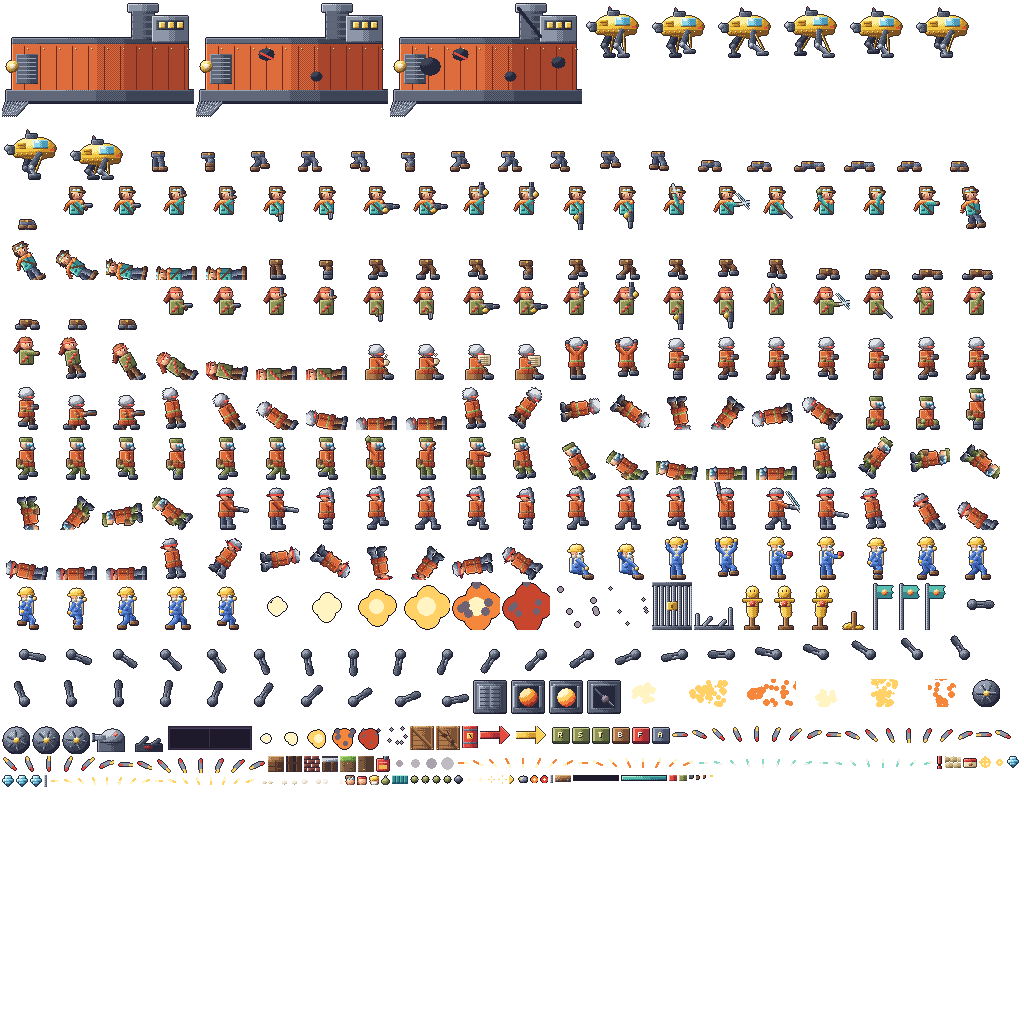
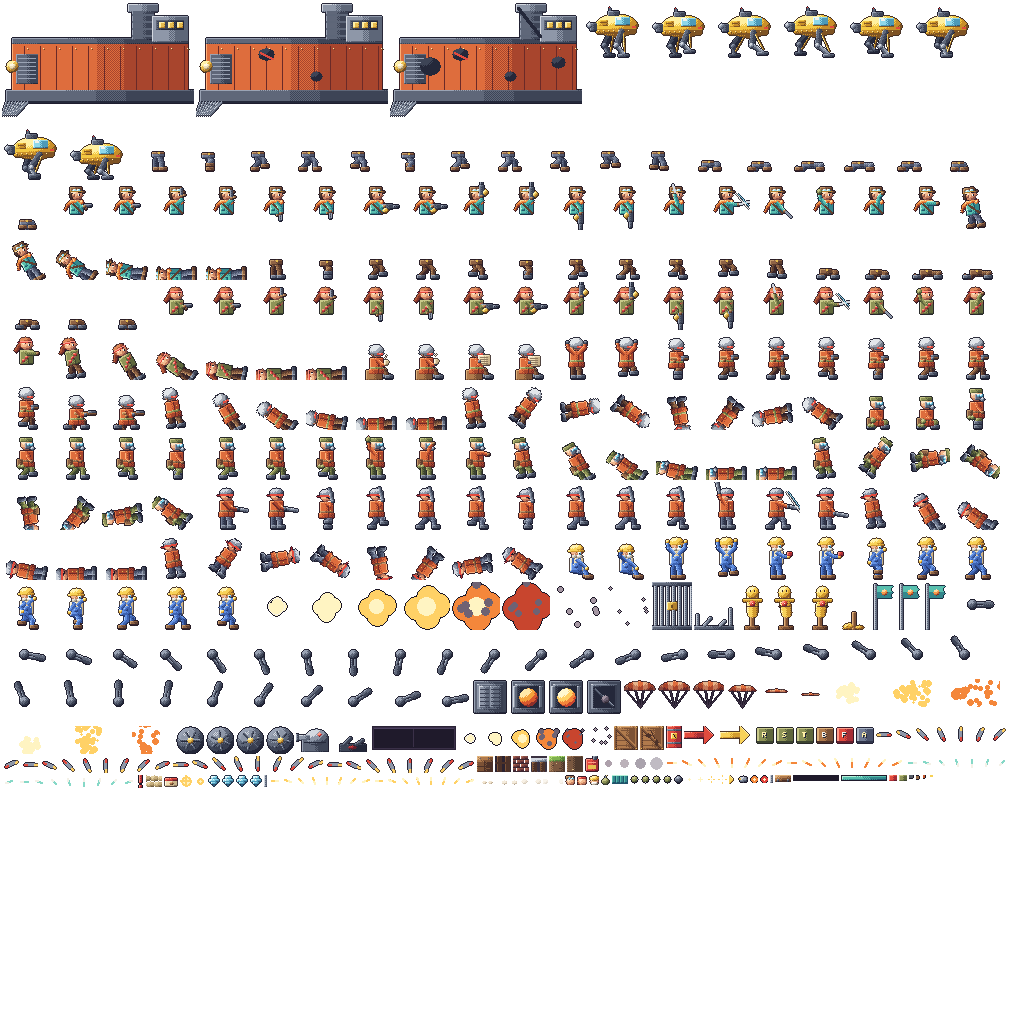
fix: spawn enemies before they are visible and add paratroopers

Changed region(s): [[0.0, 0.6562, 1.0, 0.7812]]

diff --git a/src/game/entities/enemies/Enemy.ts b/src/game/entities/enemies/Enemy.ts
@@ -10,7 +10,7 @@ import type { Target } from "../../systems/CombatSystem";
 import { ENEMIES, type EnemyDef, type EnemyType, type IdlePose } from "./EnemyDefs";
 import type { EnemyBehaviour } from "./behaviours/EnemyBehaviour";
 
-export type EnemyState = "idle" | "alert" | "engage" | "attack" | "dying" | "gone";
+export type EnemyState = "para" | "idle" | "alert" | "engage" | "attack" | "dying" | "gone";
 
 export interface EnemySpawn {
   type: EnemyType;
@@ -20,6 +20,7 @@ export interface EnemySpawn {
   hold: boolean;
   group: number;
   facing: 1 | -1;
+  para?: boolean;
 }
 
 export class Enemy implements Target {
@@ -27,6 +28,7 @@ export class Enemy implements Target {
   readonly meleeable = true;
   readonly sprite: Physics.Arcade.Sprite;
   readonly mark: GameObjects.Image;
+  readonly chute: GameObjects.Image;
   readonly fsm: StateMachine<Enemy, EnemyState>;
   readonly cooldown = new Cooldown(1);
   def: EnemyDef = ENEMIES.grunt;
@@ -45,10 +47,32 @@ export class Enemy implements Target {
     this.sprite = scene.physics.add.sprite(0, 0, TEX.atlas, "grunt_run_0").setOrigin(0.5, 1).setDepth(DEPTH.enemies);
     (this.sprite.body as Physics.Arcade.Body).setSize(14, 30).setOffset(17, 18);
     this.mark = scene.add.image(0, 0, TEX.atlas, "excl_0").setDepth(DEPTH.fx).setVisible(false);
+    this.chute = scene.add.image(0, 0, TEX.atlas, "chute_1").setOrigin(0.5, 1).setDepth(DEPTH.enemies + 1).setVisible(false);
     scene.physics.add.collider(this.sprite, ctx.terrain.solids);
     scene.physics.add.collider(this.sprite, ctx.terrain.platforms);
     this.sprite.disableBody(true, true);
     this.fsm = new StateMachine<Enemy, EnemyState>(this, {
+      para: {
+        enter: (e) => {
+          e.body.setAllowGravity(false);
+          e.body.setVelocity(0, ENEMY.paraFall);
+          e.sprite.stop();
+          e.sprite.setFrame(e.def.type === "grunt" ? "grunt_alert_1" : `${e.def.type}_run_2`);
+          e.chute.setVisible(true);
+        },
+        update: (e, _dt, t) => {
+          const sway = Math.sin(t * 2.4);
+          e.body.setVelocityX(sway * 14);
+          e.chute.setFrame(`chute_${sway < -0.35 ? 0 : sway > 0.35 ? 2 : 1}`).setPosition(Math.round(e.x), Math.round(e.y - 30));
+          if (e.body.blocked.down || e.body.touching.down) return "engage";
+        },
+        exit: (e) => {
+          e.body.setAllowGravity(true);
+          e.body.setVelocityX(0);
+          e.chute.setVisible(false);
+          e.ctx.fx.play("chute_fold", e.chute.x, e.chute.y - 14, { originY: 0.5 });
+        },
+      },
       idle: {
         enter: (e) => { const a = e.def.idleAnims[e.idlePose]; if (a) e.sprite.play(a); },
         update: (e) => (Math.abs(e.ctx.player.x - e.sprite.x) < ENEMY.noticeRange && e.ctx.player.alive ? "alert" : undefined),
@@ -123,7 +147,7 @@ export class Enemy implements Target {
     this.body.checkCollision.none = false;
     this.body.setAllowGravity(true);
     this.sprite.setFrame(this.def.standFrame);
-    this.fsm.change(s.idle === "none" ? "engage" : "idle");
+    this.fsm.change(s.para ? "para" : s.idle === "none" ? "engage" : "idle");
   }
 
   isHittable(): boolean {
@@ -205,6 +229,7 @@ export class Enemy implements Target {
   private retire(): void {
     this.active = false;
     this.mark.setVisible(false);
+    this.chute.setVisible(false);
     this.sprite.stop();
     this.sprite.disableBody(true, true);
   }

diff --git a/src/game/level/SpawnDirector.ts b/src/game/level/SpawnDirector.ts
@@ -1,3 +1,4 @@
+import { VIEW_W } from "../../config/display";
 import type { GameContext } from "../context/GameContext";
 import type { EnemyFactory } from "../entities/enemies/EnemyFactory";
 import type { LevelData, SpawnDef } from "./LevelData";
@@ -12,9 +13,14 @@ export class SpawnDirector {
   private next = 0;
   private time = 0;
   private readonly pending: Pending[] = [];
+  private readonly placed: Array<{ def: SpawnDef; group: number }> = [];
   private lockedGroup: number | null = null;
 
-  constructor(private readonly ctx: GameContext, private readonly data: LevelData, private readonly enemies: EnemyFactory) {}
+  constructor(private readonly ctx: GameContext, private readonly data: LevelData, private readonly enemies: EnemyFactory) {
+    data.triggers.forEach((t, group) => {
+      for (const def of t.spawns) if (def.x !== undefined && def.entry !== "para") this.placed.push({ def, group });
+    });
+  }
 
   get lockGroup(): number | null {
     return this.lockedGroup;
@@ -22,6 +28,7 @@ export class SpawnDirector {
 
   skipTo(scroll: number): void {
     while (this.next < this.data.triggers.length && this.data.triggers[this.next]!.at <= scroll) this.next++;
+    for (let i = this.placed.length - 1; i >= 0; i--) if (this.placed[i]!.def.x! < scroll + VIEW_W + 120) this.placed.splice(i, 1);
     this.pending.length = 0;
     this.lockedGroup = null;
     this.ctx.camera.unlock();
@@ -30,6 +37,13 @@ export class SpawnDirector {
   update(dt: number): void {
     this.time += dt;
     const cam = this.ctx.camera;
+    for (let i = this.placed.length - 1; i >= 0; i--) {
+      const p = this.placed[i]!;
+      if (p.def.x! <= cam.right + 120) {
+        this.placed.splice(i, 1);
+        this.spawn({ at: 0, def: p.def, group: p.group });
+      }
+    }
     while (this.next < this.data.triggers.length && cam.left >= this.data.triggers[this.next]!.at) {
       const t = this.data.triggers[this.next]!;
       const group = this.next;
@@ -37,7 +51,7 @@ export class SpawnDirector {
         cam.lock(t.at);
         this.lockedGroup = group;
       }
-      for (const def of t.spawns) this.pending.push({ at: this.time + (def.delay ?? 0), def, group });
+      for (const def of t.spawns) if (def.x === undefined || def.entry === "para") this.pending.push({ at: this.time + (def.delay ?? 0), def, group });
       this.next++;
     }
     for (let i = this.pending.length - 1; i >= 0; i--) {
@@ -56,16 +70,20 @@ export class SpawnDirector {
   private spawn(p: Pending): void {
     const d = p.def;
     const cam = this.ctx.camera;
-    const placed = d.x !== undefined;
-    const x = d.x ?? (d.side === "left" ? cam.left - 16 : cam.right + 16);
+    const para = d.entry === "para";
+    const placed = d.x !== undefined && !para;
+    const x = para
+      ? d.x ?? cam.left + VIEW_W * this.ctx.rng.range(0.45, 0.9)
+      : d.x ?? (d.side === "left" ? cam.left - 16 : cam.right + 16);
     this.enemies.spawn({
       type: d.type,
       x,
-      y: d.y ?? this.data.groundY,
-      idle: d.idle ?? (placed ? "idle" : "none"),
+      y: para ? -8 : d.y ?? this.data.groundY,
+      idle: para ? "none" : d.idle ?? (placed ? "idle" : "none"),
       hold: d.hold ?? false,
       group: p.group,
-      facing: d.side === "left" ? 1 : -1,
+      facing: para ? (this.ctx.player.x < x ? -1 : 1) : d.side === "left" ? 1 : -1,
+      para,
     });
   }
 }

diff --git a/src/game/level/missions/lowtide.ts b/src/game/level/missions/lowtide.ts
@@ -59,18 +59,19 @@ export const LOWTIDE: LevelData = {
     ] },
     { at: 700, spawns: [{ type: "grunt", x: 1010, idle: "idle" }, { type: "grunt", x: 1060, idle: "read" }, { type: "rusher", side: "right", delay: 1.5 }, { type: "rusher", side: "right", delay: 2.1 }] },
     { at: 1000, spawns: [{ type: "grunt", x: 1250, y: 130, idle: "idle", hold: true }, { type: "lobber", side: "right", delay: 0.8 }] },
-    { at: 1350, spawns: [{ type: "grunt", side: "right", delay: 0 }, { type: "grunt", side: "right", delay: 0.7 }, { type: "rusher", side: "left", delay: 1.4 }, { type: "grunt", side: "right", delay: 2.2 }] },
+    { at: 1350, spawns: [{ type: "grunt", side: "right", delay: 0 }, { type: "grunt", entry: "para", delay: 0.7 }, { type: "rusher", side: "left", delay: 1.4 }, { type: "grunt", entry: "para", delay: 2.2 }] },
     { at: 1700, lock: true, spawns: [
       { type: "grunt", side: "right", delay: 0 },
       { type: "lobber", x: 1780, y: 110, idle: "none", hold: true, delay: 0.3 },
       { type: "grunt", side: "right", delay: 0.8 },
       { type: "rusher", side: "left", delay: 1.6 },
       { type: "rusher", side: "right", delay: 2.4 },
-      { type: "grunt", side: "right", delay: 3.2 },
+      { type: "grunt", entry: "para", delay: 3.2 },
+      { type: "grunt", entry: "para", delay: 3.6 },
       { type: "lobber", side: "right", delay: 4 },
     ] },
     { at: 2150, spawns: [{ type: "grunt", x: 2420, idle: "read" }, { type: "grunt", x: 2470 + 40, idle: "idle" }, { type: "lobber", x: 2600, y: 130, idle: "none", hold: true }] },
-    { at: 2500, spawns: [{ type: "rusher", side: "right", delay: 0 }, { type: "rusher", side: "right", delay: 0.5 }, { type: "grunt", side: "left", delay: 1.2 }, { type: "grunt", side: "right", delay: 1.8 }] },
+    { at: 2500, spawns: [{ type: "rusher", side: "right", delay: 0 }, { type: "rusher", entry: "para", delay: 0.5 }, { type: "grunt", side: "left", delay: 1.2 }, { type: "grunt", entry: "para", delay: 1.8 }] },
     { at: 2750, spawns: [{ type: "grunt", x: 3000, y: 125, idle: "idle", hold: true }, { type: "grunt", side: "right", delay: 1 }, { type: "lobber", side: "right", delay: 1.8 }] },
   ],
   boss: { lockAt: 3456, stopX: 3720 },

diff --git a/tests/e2e/mission.spec.ts b/tests/e2e/mission.spec.ts
@@ -258,3 +258,37 @@ test("choosing Juno gives her 15 bombs and longer throws", async ({ page }) => {
   expect(s.bombs).toBe(15);
   expect(await page.evaluate("window.__mv.scene.player.legs.frame.name.startsWith('juno_')")).toBe(true);
 });
+
+test("placed enemies exist before they scroll into view", async ({ page }) => {
+  await startMission(page);
+  await run(page, "mv.shield(60);");
+  const seen = await run<Array<{ x: number; right: number }>>(page, `
+    const out = [];
+    const known = new Set(sc.enemies.list.filter((e) => e.active));
+    const on = () => {
+      for (const e of sc.enemies.list) {
+        if (!e.active || known.has(e)) continue;
+        known.add(e);
+        out.push({ x: Math.round(e.x), right: Math.round(sc.ctx.camera.right) });
+      }
+    };
+    sc.events.on("postupdate", on);
+    window.__seen = () => { sc.events.off("postupdate", on); return out; };
+    return [];`);
+  void seen;
+  await hold(page, "ArrowRight", 6000);
+  const out = (await page.evaluate("window.__seen()")) as Array<{ x: number; right: number }>;
+  const placed = out.filter((o) => o.x < o.right);
+  expect(placed.filter((o) => o.x > o.right - 340 && o.x < o.right - 4)).toEqual([]);
+});
+
+test("paratroopers float down and land", async ({ page }) => {
+  await startMission(page);
+  await run(page, "mv.shield(60); const e = sc.enemies.spawn({ type: 'grunt', x: sc.ctx.camera.left + 250, y: -8, idle: 'none', hold: false, group: -7, facing: -1, para: true }); window.__para = e;");
+  await page.waitForTimeout(500);
+  expect(await page.evaluate("window.__para.fsm.current")).toBe("para");
+  expect(await page.evaluate("window.__para.chute.visible")).toBe(true);
+  await page.waitForFunction("window.__para.fsm.current !== 'para'", null, { timeout: 8_000 });
+  expect(await page.evaluate("window.__para.chute.visible")).toBe(false);
+  expect(await page.evaluate("Math.round(window.__para.y)")).toBe(184);
+});

diff --git a/src/game/scenes/MissionScene.ts b/src/game/scenes/MissionScene.ts
@@ -106,6 +106,7 @@ export class MissionScene extends Scene {
     this.warden = this.level.boss ? new Warden(ctx, this.enemies, this.level.boss.stopX, this.level.groundY) : null;
     if (this.level.goalX) this.add.sprite(this.level.goalX, this.level.groundY, TEX.atlas, "flag_0").setOrigin(0.5, 1).setDepth(DEPTH.props).play("flag");
     this.spawner = new SpawnDirector(ctx, this.level, this.enemies);
+    this.spawner.update(0);
     this.wireEvents();
     this.flow = new StateMachine<MissionScene, Flow>(this, {
       intro: {

diff --git a/src/config/tuning.ts b/src/config/tuning.ts
@@ -60,6 +60,7 @@ export const ENEMY = {
   alertTime: 0.45,
   despawnBehind: 96,
   hopSpeed: 290,
+  paraFall: 52,
   grunt: { hp: 1, speed: 60, keepMin: 80, keepMax: 150, aimTime: 0.5, fireGap: [1.6, 2.6], bulletSpeed: 110, maxAngle: 0.6 },
   lobber: { hp: 1, speed: 50, keepMin: 110, keepMax: 170, windup: 0.5, throwGap: [2.4, 3.2], flightTime: 0.9 },
   rusher: { hp: 2, speed: 110, reach: 20, windup: 0.45, active: 0.12, recover: 0.5 },

diff --git a/src/game/assets/Animations.ts b/src/game/assets/Animations.ts
@@ -49,6 +49,7 @@ const SPECS: AnimSpec[] = [
   { key: "go", prefix: "go_", frames: 2, rate: 4, repeat: -1 },
   { key: "dummy_hit", prefix: "dummy_hit_", frames: 2, rate: 14, repeat: 1 },
   { key: "flag", prefix: "flag_", frames: 3, rate: 6, repeat: -1 },
+  { key: "chute_fold", prefix: "chute_fold_", frames: 3, rate: 10 },
 ];
 
 export function registerAnimations(scene: Scene): void {

diff --git a/src/game/level/missions/camp.ts b/src/game/level/missions/camp.ts
@@ -52,7 +52,7 @@ export const CAMP: LevelData = {
       { type: "grunt", side: "right", delay: 0.4 },
       { type: "grunt", side: "right", delay: 1.4 },
       { type: "rusher", side: "right", delay: 2.4 },
-      { type: "grunt", side: "left", delay: 3.2 },
+      { type: "grunt", entry: "para", delay: 3.2 },
     ] },
   ],
 };

diff --git a/src/game/level/LevelData.ts b/src/game/level/LevelData.ts
@@ -39,6 +39,7 @@ export interface SpawnDef {
   delay?: number;
   idle?: IdlePose;
   hold?: boolean;
+  entry?: "walk" | "para";
 }
 
 export interface TriggerDef {
